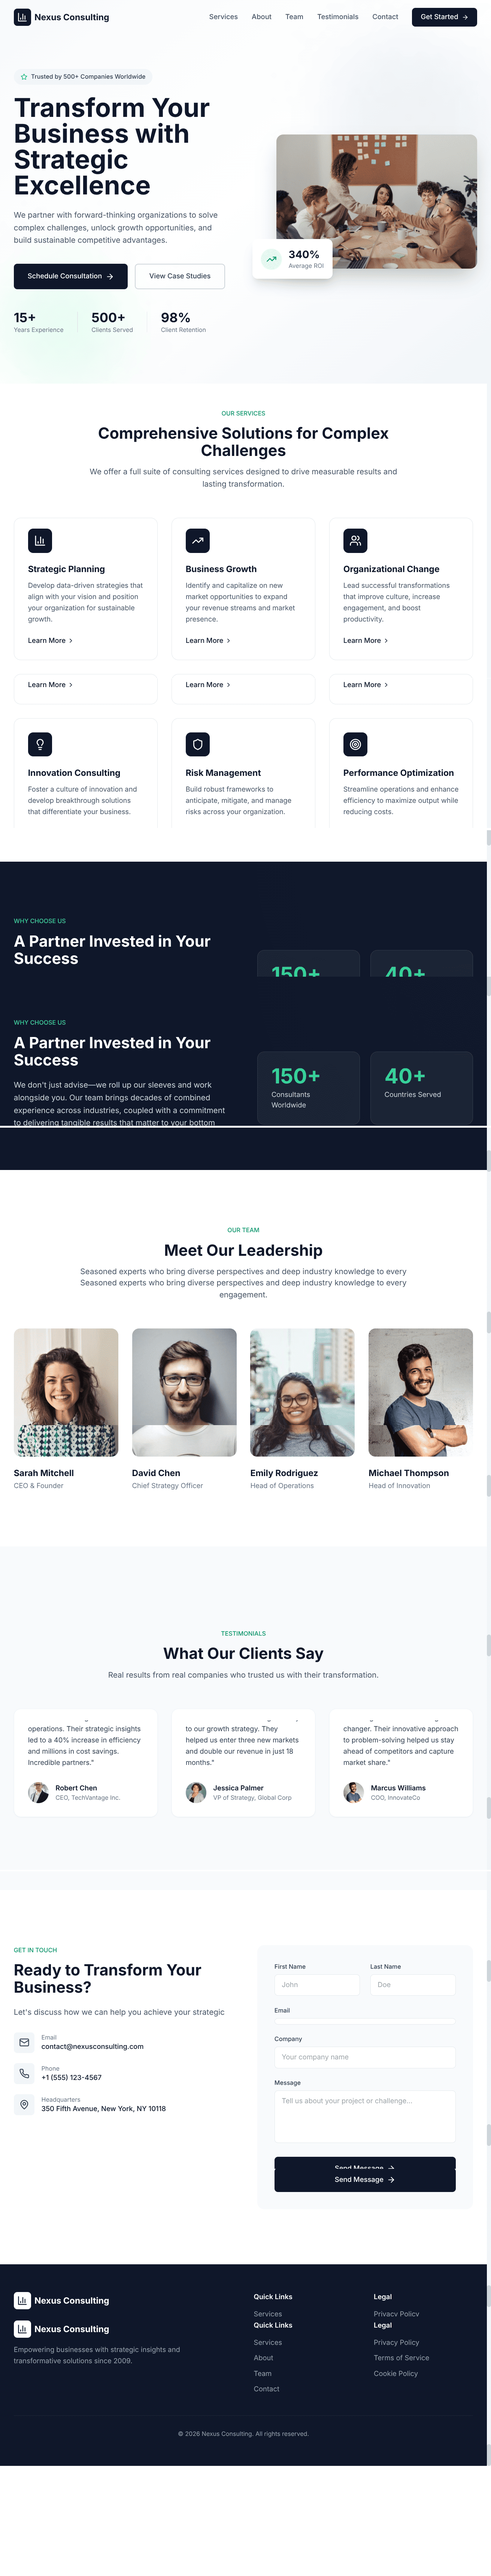
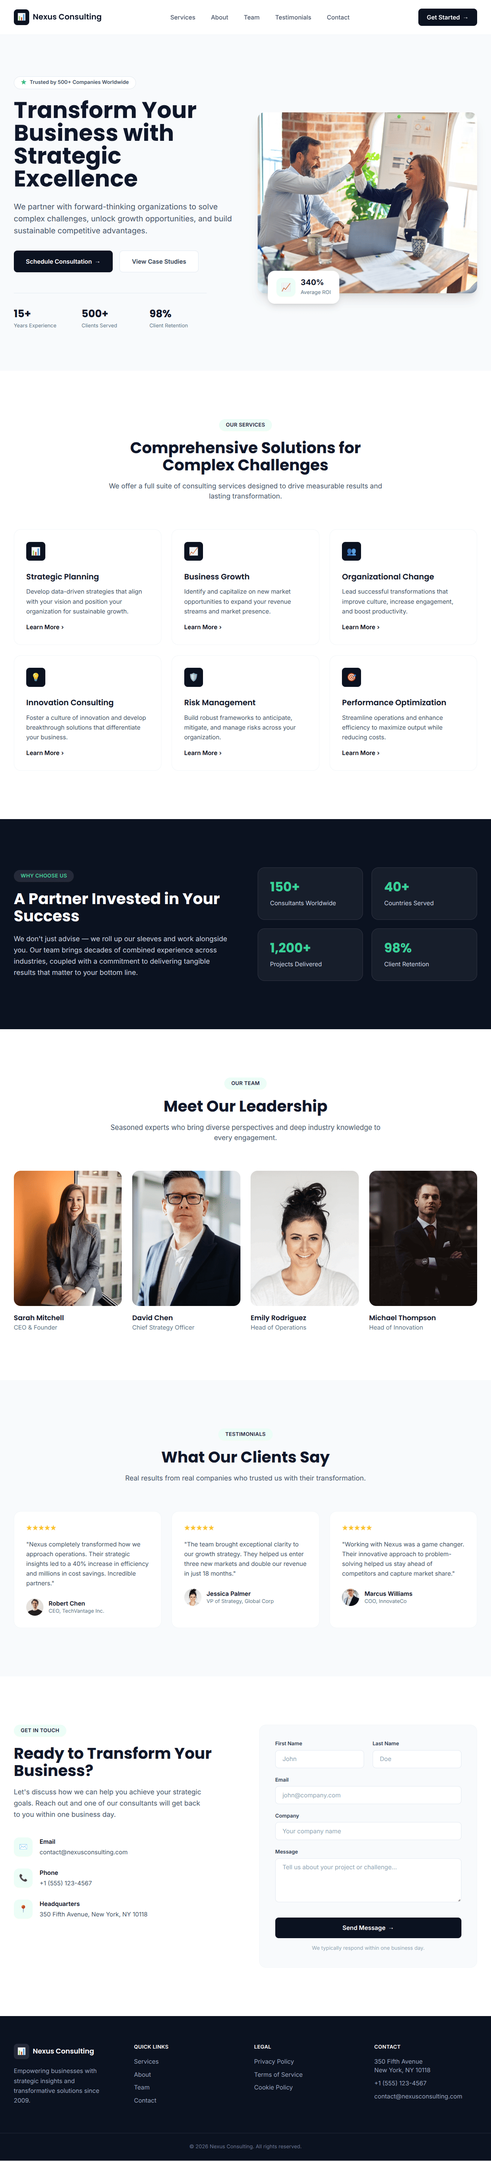
updat

diff --git a/index.html b/index.html
@@ -187,7 +187,8 @@ content="Freelance Front-End Developer and Web Designer creating modern, respons
                             <div class="flex items-center gap-2 hover:text-orange-400 transition-colors">React</div>
                             <div class="flex items-center gap-2 hover:text-orange-400 transition-colors">Typescript</div>
                                             <div class="flex items-center gap-2 hover:text-orange-400 transition-colors">SASS</div>
-                <div class="flex items-center gap-2 hover:text-orange-400 transition-colors">3+ Years in IT Support</div>
+                <div class="flex items-center gap-2 hover:text-orange-400 transition-colors">Framer Motion</div>
+                                            <div class="flex items-center gap-2 hover:text-orange-400 transition-colors">3+ Years in IT Support</div>
             </div>
         </div>
     </section>
@@ -361,7 +362,7 @@ content="Freelance Front-End Developer and Web Designer creating modern, respons
                 A gym landing page
             </p>
             <div class="flex gap-4 mt-8">
-                <a href="./src/img-sites/gym-site.png" target="_blank" class="flex-1 bg-orange-500 text-center py-4 rounded-2xl font-medium hover:bg-orange-600 transition">Visualizar</a>
+                <a href="https://jeanribeiro8.github.io/gym-site/" target="_blank" class="flex-1 bg-orange-500 text-center py-4 rounded-2xl font-medium hover:bg-orange-600 transition">Visualizar</a>
                 <a href="https://github.com/JeanRibeiro8/gym-site" target="_blank" class="flex-1 border border-zinc-700 text-center py-4 rounded-2xl font-medium hover:bg-zinc-800 transition">Código</a>
             </div>
         </div>
@@ -387,7 +388,7 @@ content="Freelance Front-End Developer and Web Designer creating modern, respons
                    A school institutional website about technology.
             </p>
             <div class="flex gap-4 mt-8">
-                <a href="./src/img-sites/tech-site.png" target="_blank" class="flex-1 bg-orange-500 text-center py-4 rounded-2xl font-medium hover:bg-orange-600 transition">Visualizar</a>
+                <a href="https://jeanribeiro8.github.io/TecSchool/" target="_blank" class="flex-1 bg-orange-500 text-center py-4 rounded-2xl font-medium hover:bg-orange-600 transition">Visualizar</a>
                 <a href="https://github.com/JeanRibeiro8/TecSchool" target="_blank" class="flex-1 border border-zinc-700 text-center py-4 rounded-2xl font-medium hover:bg-zinc-800 transition">Código</a>
             </div>
         </div>
@@ -413,8 +414,8 @@ content="Freelance Front-End Developer and Web Designer creating modern, respons
                 Institutional website Nexus Consulting.
             </p>
             <div class="flex gap-4 mt-8">
-                <a href="./src/img-sites/1.consult.png" target="_blank" class="flex-1 bg-orange-500 text-center py-4 rounded-2xl font-medium hover:bg-orange-600 transition">Visualizar</a>
-                <a href="https://github.com/JeanRibeiro8" target="_blank" class="flex-1 border border-zinc-700 text-center py-4 rounded-2xl font-medium hover:bg-zinc-800 transition">Código</a>
+                <a href="https://6a6fb9e46288671a214a82c8--flourishing-nougat-b524e3.netlify.app/" target="_blank" class="flex-1 bg-orange-500 text-center py-4 rounded-2xl font-medium hover:bg-orange-600 transition">Visualizar</a>
+                <a href="https://github.com/JeanRibeiro8/nexus-consulting" target="_blank" class="flex-1 border border-zinc-700 text-center py-4 rounded-2xl font-medium hover:bg-zinc-800 transition">Código</a>
             </div>
         </div>
     </div>
@@ -442,8 +443,8 @@ content="Freelance Front-End Developer and Web Designer creating modern, respons
                 Institutional website BrightSmile.
             </p>
             <div class="flex gap-4 mt-8">
-                <a href="./src/img-sites/1.dent.png" target="_blank" class="flex-1 bg-orange-500 text-center py-4 rounded-2xl font-medium hover:bg-orange-600 transition">Visualizar</a>
-                <a href="https://github.com/JeanRibeiro8" target="_blank" class="flex-1 border border-zinc-700 text-center py-4 rounded-2xl font-medium hover:bg-zinc-800 transition">Código</a>
+                <a href="https://6a6fb5bcab6a10ffbdeacbe6--spontaneous-daffodil-cdbb96.netlify.app/" target="_blank" class="flex-1 bg-orange-500 text-center py-4 rounded-2xl font-medium hover:bg-orange-600 transition">Visualizar</a>
+                <a href="https://github.com/JeanRibeiro8/brightsmile-site" target="_blank" class="flex-1 border border-zinc-700 text-center py-4 rounded-2xl font-medium hover:bg-zinc-800 transition">Código</a>
             </div>
         </div>
     </div>
@@ -452,12 +453,12 @@ content="Freelance Front-End Developer and Web Designer creating modern, respons
         <!--PROJECT 6-->
     <div class="group card-hover bg-zinc-900 rounded-3xl overflow-hidden border border-zinc-800">
         <div class="h-80 bg-zinc-800 relative">
-            <img src="./src/img-sites/1.restaurant.png" alt="Restaurant" class="w-full h-full object-cover group-hover:scale-105 transition-transform duration-500">
+            <img src="./src/img-sites/marketing.png" alt="Marketing" class="w-full h-full object-cover group-hover:scale-105 transition-transform duration-500">
         </div>
         <div class="p-8">
             <div class="flex justify-between items-start">
                 <div>
-                    <div class="font-semibold text-xl">Ember&Oak</div>
+                    <div class="font-semibold text-xl">Blaze Agencia</div>
                     <div class="text-zinc-400 text-sm">Webdesign landingpage</div>
                 </div>
                 <div class="flex gap-2">
@@ -466,41 +467,15 @@ content="Freelance Front-End Developer and Web Designer creating modern, respons
                 </div>
             </div>
             <p class="mt-4 text-zinc-400 line-clamp-2">
-                Restaurant website Ember&Oak.
+                Marketing website Blaze-Agencia.
             </p>
             <div class="flex gap-4 mt-8">
-                <a href="./src/img-sites/1.restaurant.png" target="_blank" class="flex-1 bg-orange-500 text-center py-4 rounded-2xl font-medium hover:bg-orange-600 transition">Visualizar</a>
-                <a href="https://github.com/JeanRibeiro8" target="_blank" class="flex-1 border border-zinc-700 text-center py-4 rounded-2xl font-medium hover:bg-zinc-800 transition">Código</a>
+                <a href="https://6a6fc15d3a25f867c549d9e3--mellow-jalebi-8feb13.netlify.app/" target="_blank" class="flex-1 bg-orange-500 text-center py-4 rounded-2xl font-medium hover:bg-orange-600 transition">Visualizar</a>
+                <a href="https://github.com/JeanRibeiro8/blaze-agencia" target="_blank" class="flex-1 border border-zinc-700 text-center py-4 rounded-2xl font-medium hover:bg-zinc-800 transition">Código</a>
             </div>
         </div>
     </div>
 
-
-        <!--PROJECT 7-->
-    <div class="group card-hover bg-zinc-900 rounded-3xl overflow-hidden border border-zinc-800">
-        <div class="h-80 bg-zinc-800 relative">
-            <img src="./src/img-sites/1.salom.png" alt="Dentist" class="w-full h-full object-cover group-hover:scale-105 transition-transform duration-500">
-        </div>
-        <div class="p-8">
-            <div class="flex justify-between items-start">
-                <div>
-                    <div class="font-semibold text-xl">LuxeBeauty</div>
-                    <div class="text-zinc-400 text-sm">Webdesign landingpage</div>
-                </div>
-                <div class="flex gap-2">
-                    <span class="text-xs px-3 py-1 bg-zinc-800 rounded-full">Javascript</span>
-                    <span class="text-xs px-3 py-1 bg-zinc-800 rounded-full">Tailwind css</span>
-                </div>
-            </div>
-            <p class="mt-4 text-zinc-400 line-clamp-2">
-                Salom website LuxeBeauty.
-            </p>
-            <div class="flex gap-4 mt-8">
-                <a href="./src/img-sites/1.salom.png" target="_blank" class="flex-1 bg-orange-500 text-center py-4 rounded-2xl font-medium hover:bg-orange-600 transition">Visualizar</a>
-                <a href="https://github.com/JeanRibeiro8" target="_blank" class="flex-1 border border-zinc-700 text-center py-4 rounded-2xl font-medium hover:bg-zinc-800 transition">Código</a>
-            </div>
-        </div>
-    </div>
 
         <!--PROJECT 9-->
     <div class="group card-hover bg-zinc-900 rounded-3xl overflow-hidden border border-zinc-800">
@@ -643,5 +618,123 @@ content="Freelance Front-End Developer and Web Designer creating modern, respons
     </footer>
 
     <script src="./src/script/script.js"></script>
+ 
+
+    <!-- GSAP CDN -->
+<script src="https://cdnjs.cloudflare.com/ajax/libs/gsap/3.12.5/gsap.min.js"></script>
+<script src="https://cdnjs.cloudflare.com/ajax/libs/gsap/3.12.5/ScrollTrigger.min.js"></script>
+
+<script>
+  gsap.registerPlugin(ScrollTrigger);
+
+  // ======================
+  // HERO
+  // ======================
+  gsap.from(".hero-bg .space-y-8 > *", {
+    opacity: 0,
+    y: 40,
+    duration: 0.9,
+    stagger: 0.15,
+    ease: "power3.out",
+    delay: 0.2
+  });
+
+  gsap.from(".hero-bg .relative", {
+    opacity: 0,
+    x: 60,
+    duration: 1.1,
+    ease: "power3.out",
+    delay: 0.4
+  });
+
+  // ======================
+  // SKILL BARS
+  // ======================
+  gsap.utils.toArray(".progress-bar").forEach(bar => {
+    const width = bar.classList.contains("w-[80%]") ? "80%" : "70%";
+    
+    gsap.fromTo(bar, 
+      { width: "0%" },
+      {
+        width: width,
+        duration: 1.6,
+        ease: "power2.out",
+        scrollTrigger: {
+          trigger: bar,
+          start: "top 90%",
+          once: true
+        }
+      }
+    );
+  });
+
+  // ======================
+  // ABOUT
+  // ======================
+  gsap.from("#about .md\\:col-span-5", {
+    opacity: 0,
+    x: -40,
+    duration: 1,
+    ease: "power3.out",
+    scrollTrigger: {
+      trigger: "#about",
+      start: "top 80%"
+    }
+  });
+
+  gsap.from("#about .md\\:col-span-7 > *", {
+    opacity: 0,
+    y: 30,
+    duration: 0.8,
+    stagger: 0.1,
+    ease: "power3.out",
+    scrollTrigger: {
+      trigger: "#about",
+      start: "top 75%"
+    }
+  });
+
+  // ======================
+  // SKILLS
+  // ======================
+  gsap.from("#skills .grid > div", {
+    opacity: 0,
+    y: 40,
+    duration: 0.8,
+    stagger: 0.12,
+    ease: "power3.out",
+    scrollTrigger: {
+      trigger: "#skills",
+      start: "top 80%"
+    }
+  });
+
+
+  // ======================
+  // CONTACT
+  // ======================
+  gsap.from("#contact .grid > div:first-child", {
+    opacity: 0,
+    x: -40,
+    duration: 1,
+    ease: "power3.out",
+    scrollTrigger: {
+      trigger: "#contact",
+      start: "top 80%"
+    }
+  });
+
+  gsap.from("#contact form", {
+    opacity: 0,
+    x: 40,
+    duration: 1,
+    ease: "power3.out",
+    scrollTrigger: {
+      trigger: "#contact",
+      start: "top 80%"
+    }
+  });
+</script>
+
 </body>
 </html>
